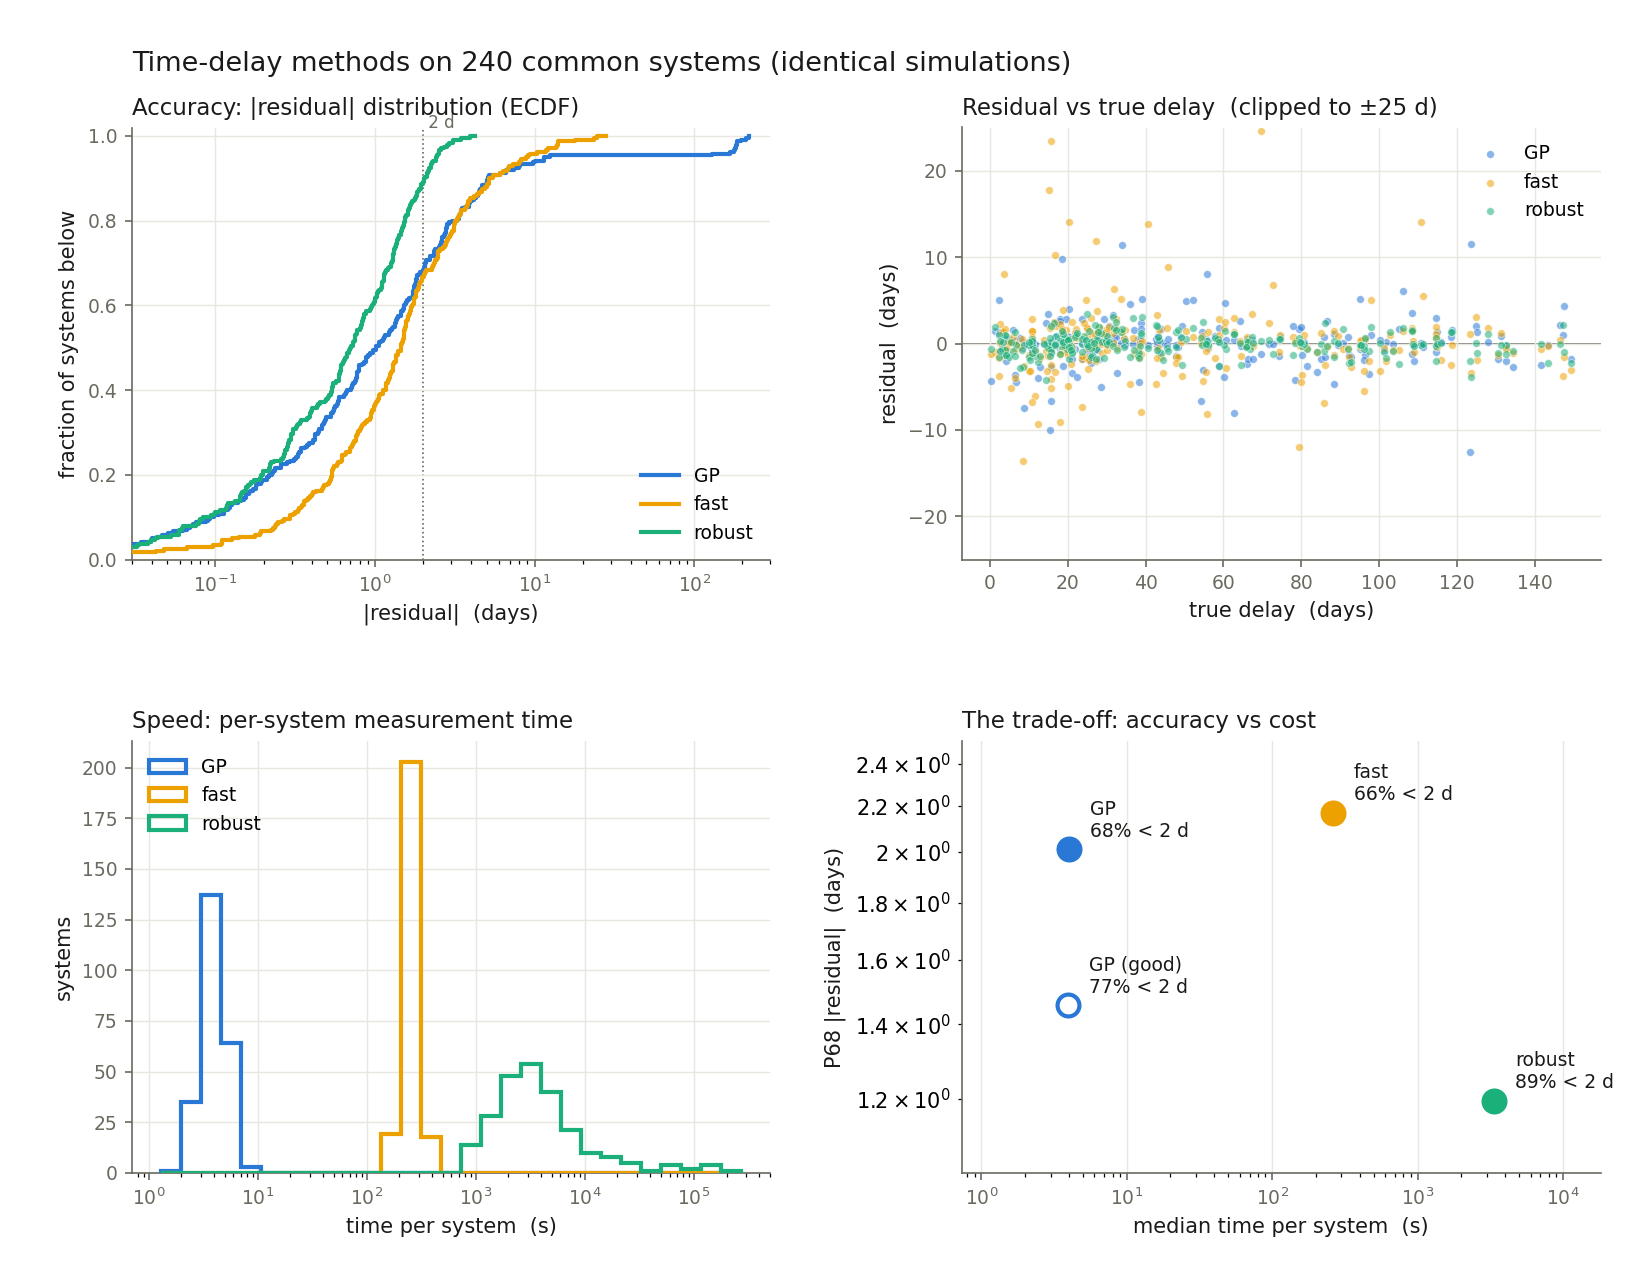
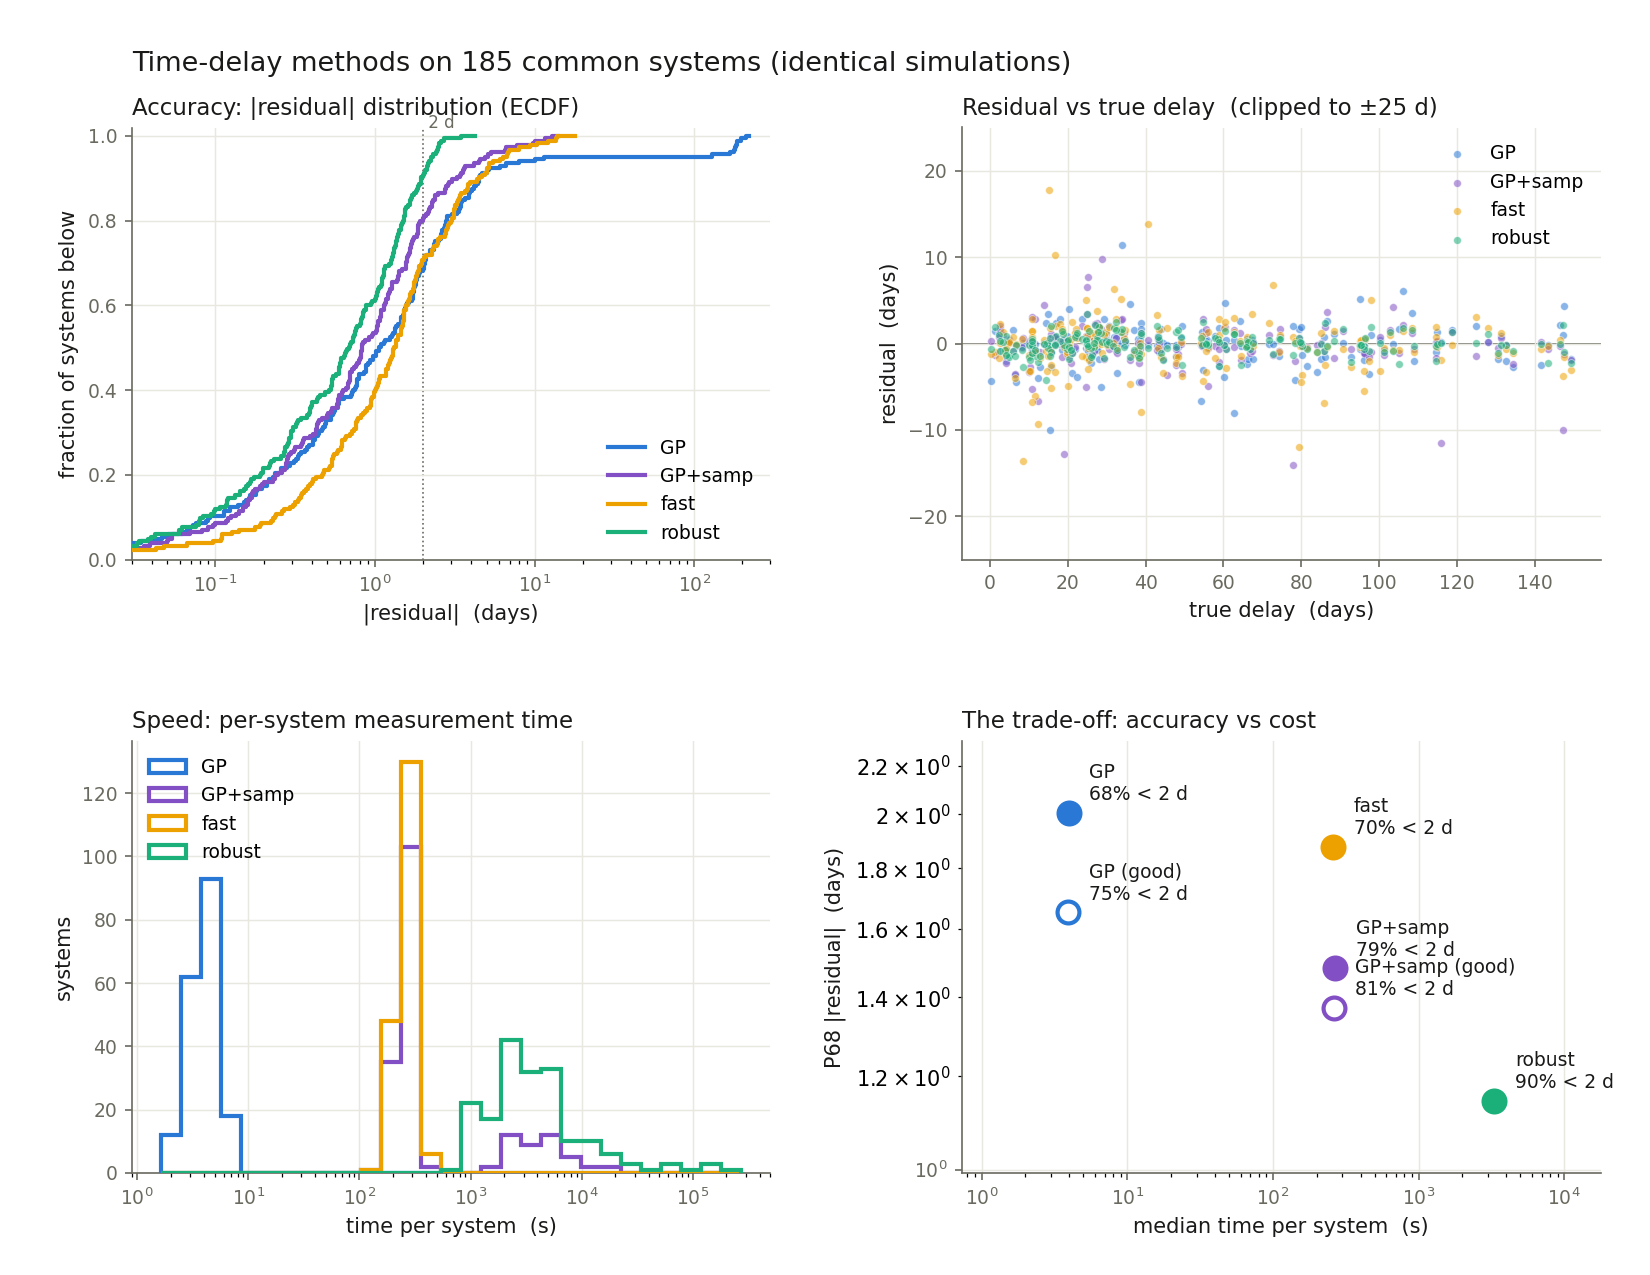
Four-way comparison: GP-only vs GP+sampling vs fast vs robust
185 common systems: GP+samp 1.48 d P68 at ~268 s dominates unprimed fast
(1.88 d, same cost); robust still best (1.14 d) at 12x the cost; GP-only
2.01 d at 4 s.

diff --git a/scripts/compare_fit_modes.py b/scripts/compare_fit_modes.py
@@ -1,12 +1,16 @@
 """
 compare_fit_modes.py
 =====================
-Head-to-head comparison of the three delay-measurement methods on the SAME
+Head-to-head comparison of the four delay-measurement methods on the SAME
 lens systems (inner join on lens_index + image):
 
-  GP cross-correlation  scripts/gp_benchmark.ecsv             (wall_time_s)
-  SALT fast             scripts/delay_benchmark_fast.ecsv     (fit_time_s)
-  SALT robust           scripts/delay_benchmark_robust.ecsv   (fit_time_s)
+  GP cross-correlation  gp_only_benchmark.ecsv       (wall_time_s)
+  GP+samp (primed fit)  delay_benchmark_gp.ecsv      (fit_time_s + gp_time_s)
+  SALT fast             delay_benchmark_fast.ecsv    (fit_time_s)
+  SALT robust           delay_benchmark_robust.ecsv  (fit_time_s)
+
+All files are found via roman_td.paths.find_benchmark (outputs/benchmarks/,
+with a legacy scripts/ fallback).
 
 All three used identical simulations (same per-lens seed), so differences
 are attributable to the method alone. "GP (good)" is the GP restricted to
@@ -33,7 +37,8 @@ FIGDIR = os.path.join(os.path.dirname(HERE), "figures")
 os.makedirs(FIGDIR, exist_ok=True)
 
 # Fixed color per method (validated categorical palette; never reassigned)
-COLORS = {"GP": "#2a78d6", "fast": "#eda100", "robust": "#1baf7a"}
+COLORS = {"GP": "#2a78d6", "GP+samp": "#8250c4", "fast": "#eda100",
+          "robust": "#1baf7a"}
 TEXT, MUTED = "#1a1a19", "#6b6a60"
 
 
@@ -43,24 +48,29 @@ def load():
     sys.path.insert(0, os.path.join(HERE, ".."))
     from roman_td.paths import find_benchmark
     gp = Table.read(find_benchmark("gp_only_benchmark.ecsv"))
+    gps = Table.read(find_benchmark("delay_benchmark_gp.ecsv"))
     fast = Table.read(find_benchmark("delay_benchmark_fast.ecsv"))
     rob = Table.read(find_benchmark("delay_benchmark_robust.ecsv"))
 
     def key(t):
         return {(int(r["lens_index"]), str(r["image"])): r for r in t}
 
-    kg, kf, kr = key(gp), key(fast), key(rob)
-    common = sorted(set(kg) & set(kf) & set(kr))
+    kg, ks, kf, kr = key(gp), key(gps), key(fast), key(rob)
+    common = sorted(set(kg) & set(ks) & set(kf) & set(kr))
 
     rows = []
     for k in common:
-        g, f, r = kg[k], kf[k], kr[k]
+        g, s, f, r = kg[k], ks[k], kf[k], kr[k]
         rows.append({
             "lens_index": k[0], "image": k[1],
             "true_delay": float(g["true_delay"]),
-            "res_GP": float(g["residual"]), "res_fast": float(f["residual"]),
+            "res_GP": float(g["residual"]),
+            "res_GP+samp": float(s["residual"]),
+            "res_fast": float(f["residual"]),
             "res_robust": float(r["residual"]),
-            "t_GP": float(g["wall_time_s"]), "t_fast": float(f["fit_time_s"]),
+            "t_GP": float(g["wall_time_s"]),
+            "t_GP+samp": float(s["fit_time_s"]) + float(s["gp_time_s"]),
+            "t_fast": float(f["fit_time_s"]),
             "t_robust": float(r["fit_time_s"]),
             "gp_quality": str(g["quality"]),
         })
@@ -81,18 +91,20 @@ def stats(res, t):
 
 def main():
     tab = load()
-    print(f"Common systems across all three benchmarks: {len(tab)}")
+    print(f"Common systems across all four benchmarks: {len(tab)}")
 
-    methods = ["GP", "fast", "robust"]
+    methods = ["GP", "GP+samp", "fast", "robust"]
     S = {m: stats(np.asarray(tab[f"res_{m}"]), np.asarray(tab[f"t_{m}"]))
          for m in methods}
     good = tab[tab["gp_quality"] == "good"]
-    S["GP (good)"] = stats(np.asarray(good["res_GP"]), np.asarray(good["t_GP"]))
+    for m in ("GP", "GP+samp"):
+        S[f"{m} (good)"] = stats(np.asarray(good[f"res_{m}"]),
+                                 np.asarray(good[f"t_{m}"]))
 
-    print(f"\n{'method':<10} {'n':>4} {'median':>8} {'P68|res|':>9} "
+    print(f"\n{'method':<15} {'n':>4} {'median':>8} {'P68|res|':>9} "
           f"{'<2d':>6} {'<5d':>6} {'med time':>9}")
     for m, s in S.items():
-        print(f"{m:<10} {s['n']:>4} {s['median']:>+7.2f}d {s['p68']:>8.2f}d "
+        print(f"{m:<15} {s['n']:>4} {s['median']:>+7.2f}d {s['p68']:>8.2f}d "
               f"{s['lt2']:>5.0f}% {s['lt5']:>5.0f}% {s['t_med']:>8.1f}s")
 
     # ── figure ──────────────────────────────────────────────────────────
